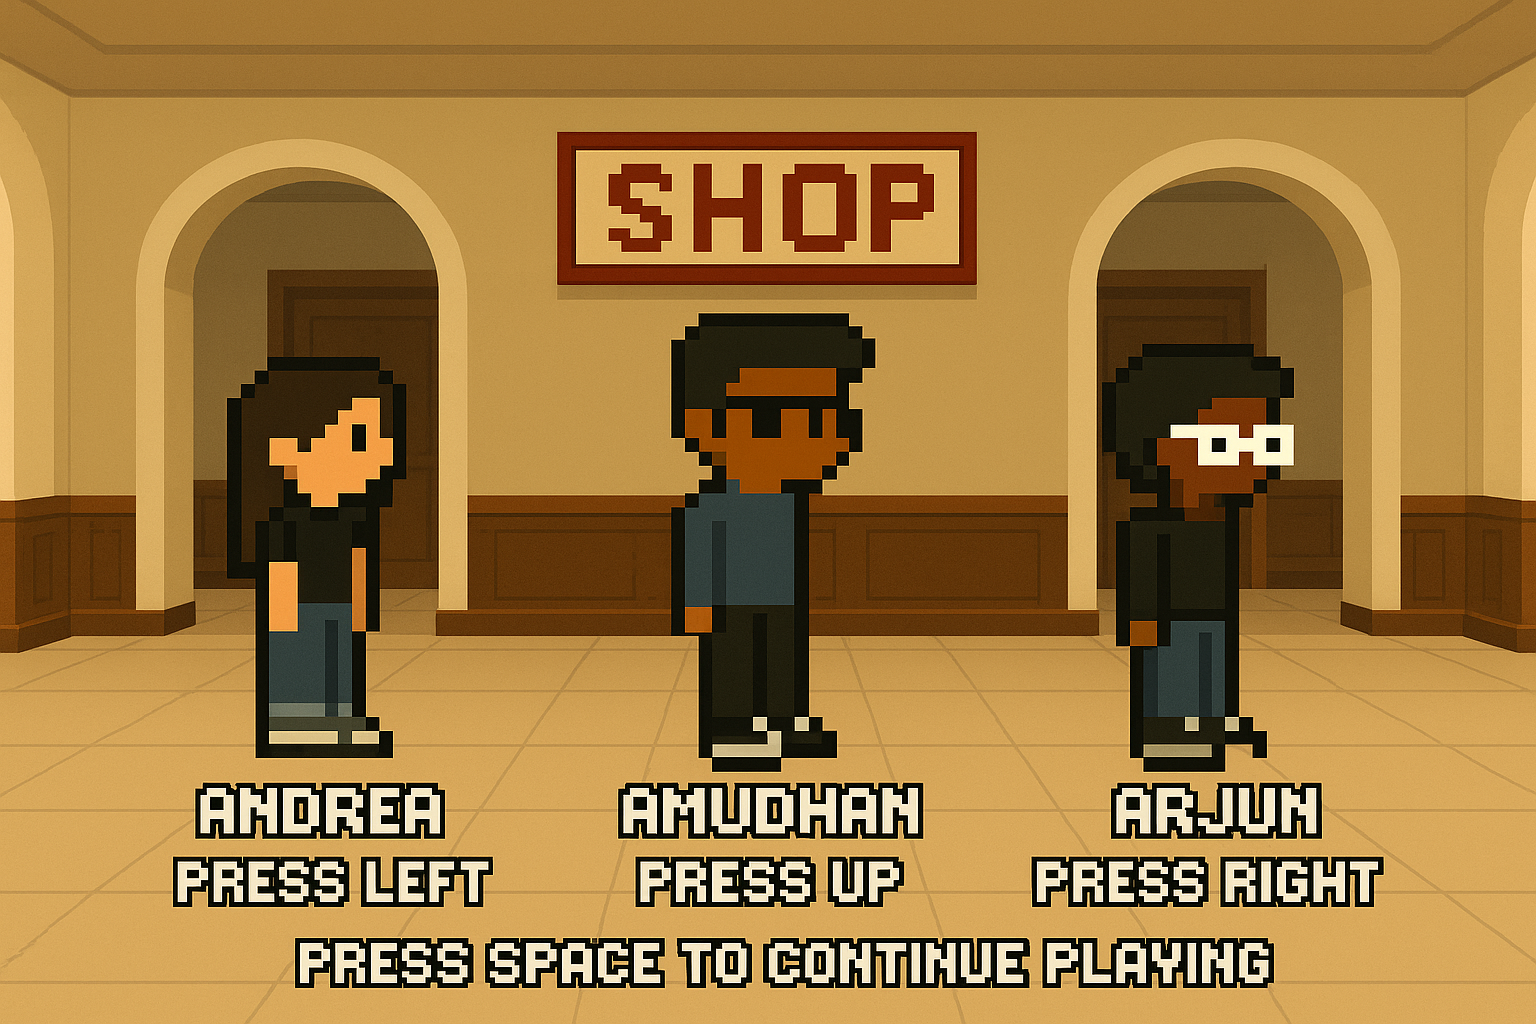
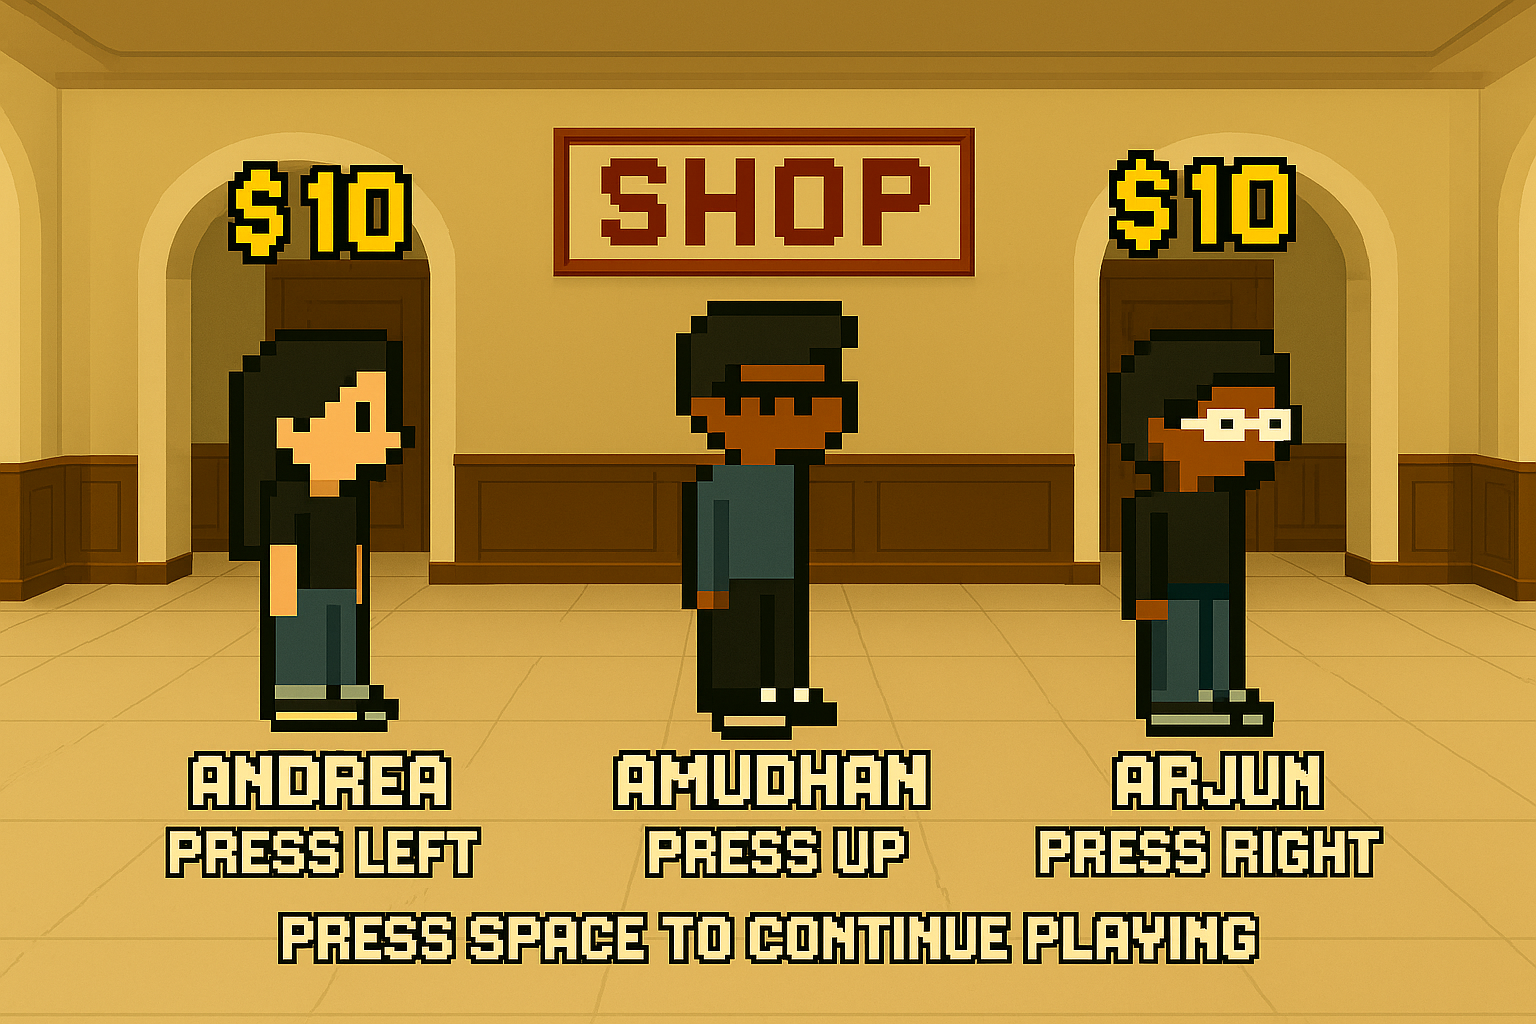
and

diff --git a/library/kinematics.c b/library/kinematics.c
@@ -24,33 +24,36 @@ vector_t get_curr_gravity(state_t *state) {
 
 void on_key(char key, key_event_type_t type, double held_time, state_t *state) {
   if (state->show_shop) {
-  }
-  if (state->show_shop) {
     switch (key) {
     case SPACE_BAR:
       reset_game(state);
       return;
     case LEFT_ARROW:
-      state->sprite_path = PLAYER_SPRITE_ANDREA_PATH;
+      if (state->n_coins_collected >= 10) {
+        state->sprite_path = PLAYER_SPRITE_ANDREA_PATH;
+        state->n_coins_collected = state->n_coins_collected - 10;
+      }
       return;
     case UP_ARROW:
       state->sprite_path = PLAYER_SPRITE_AMUDHAN_PATH;
       return;
     case RIGHT_ARROW:
-      state->sprite_path = PLAYER_SPRITE_ARJUN_PATH;
-      return;
+      if (state->n_coins_collected >= 10) {
+        state->sprite_path = PLAYER_SPRITE_ARJUN_PATH;
+        state->n_coins_collected = state->n_coins_collected - 10;
+      }
     }
   }
 
   if (type == KEY_PRESSED && state->player_motion == REGULAR) {
-    if (!state->started && key == SPACE_BAR) {
+    if (!state->show_shop && !state->started && key == SPACE_BAR) {
       state->started = true;
       state->current_game_screen = GAME;
       halt_music();
       return;
     }
 
-    if (state->started && state->player_motion == REGULAR) {
+    if (!state->show_shop && state->started && state->player_motion == REGULAR) {
       body_t *player_body = scene_get_body(state->scene, 0);
       assert(strcmp(body_get_info(player_body), PLAYER_INFO) == 0);
 
